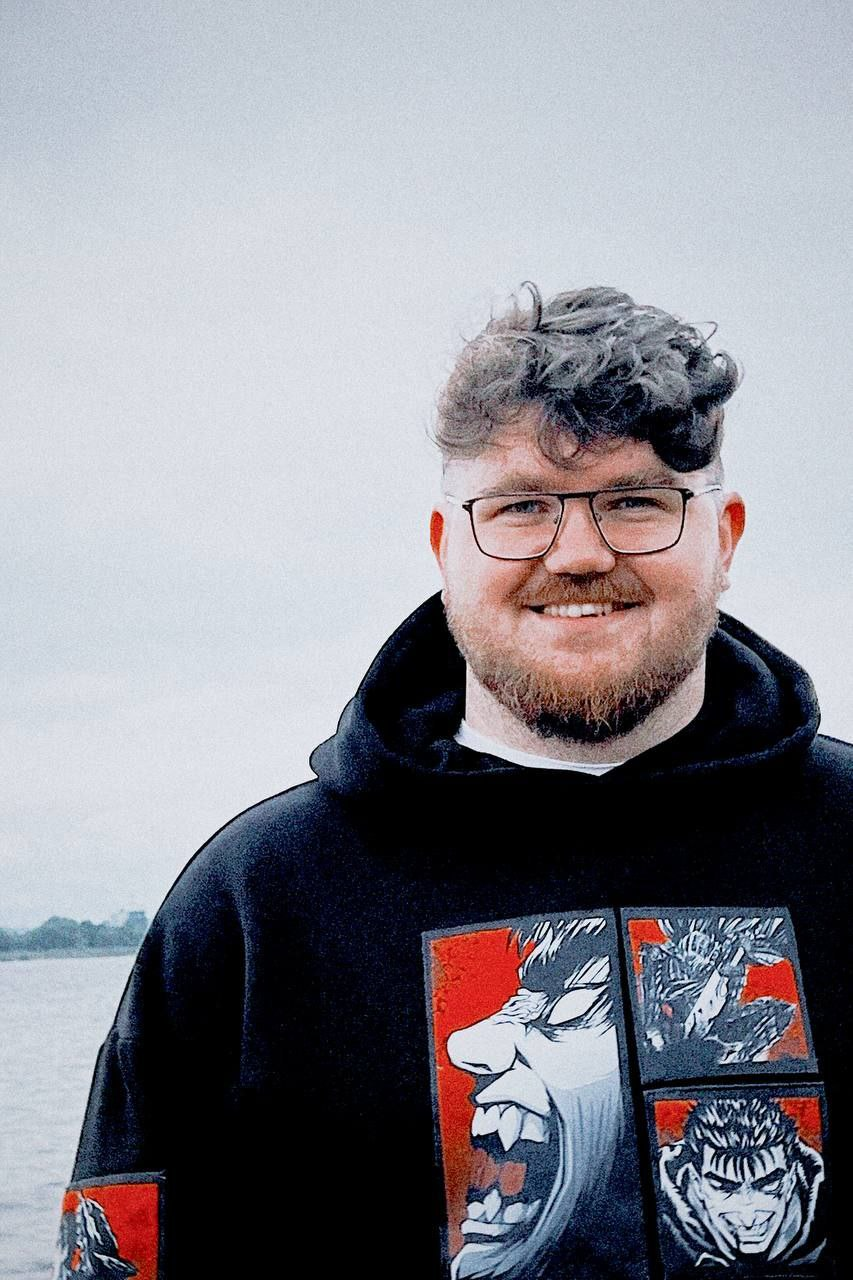
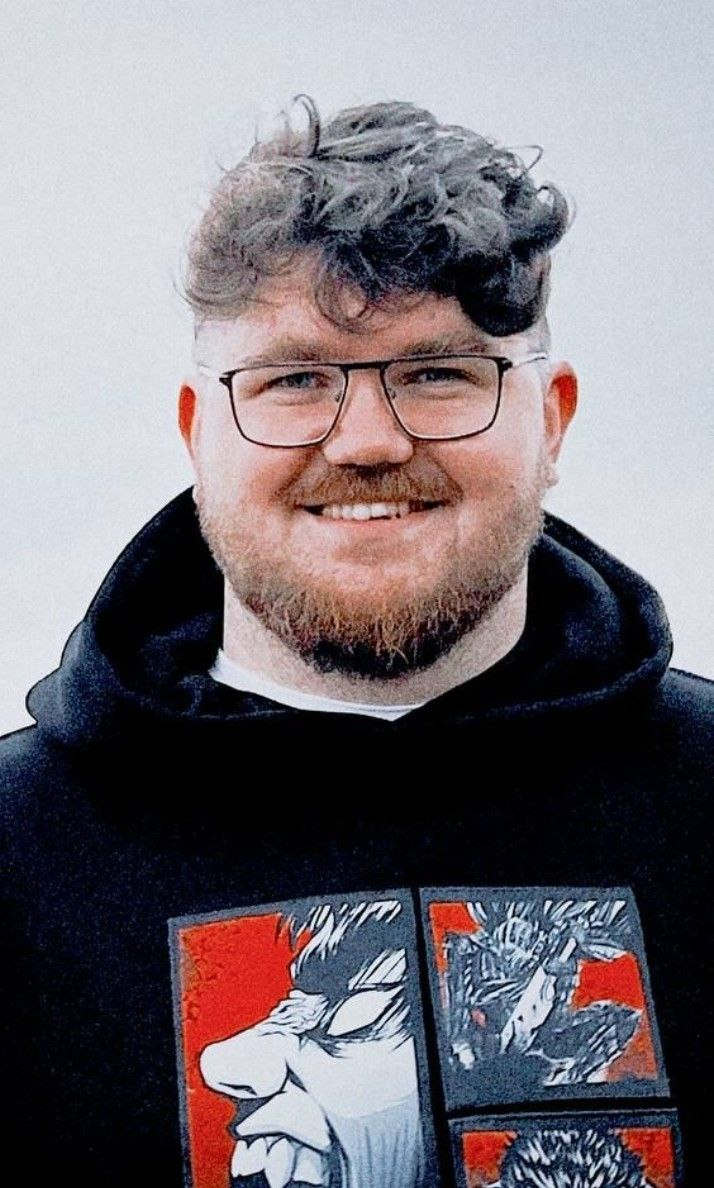
docs: change pic

diff --git a/cv.md b/cv.md
@@ -2,7 +2,7 @@
 
 ## Name
 
-![Photo](https://github.com/nikita01471/rsschool-cv/blob/gh-pages/cv_pic.jpg?raw=true){width=200 height=300}
+![Photo](https://github.com/nikita01471/rsschool-cv/blob/gh-pages/cv_pic.jpg?raw=true)
 
 Ivanov Nikita
 
